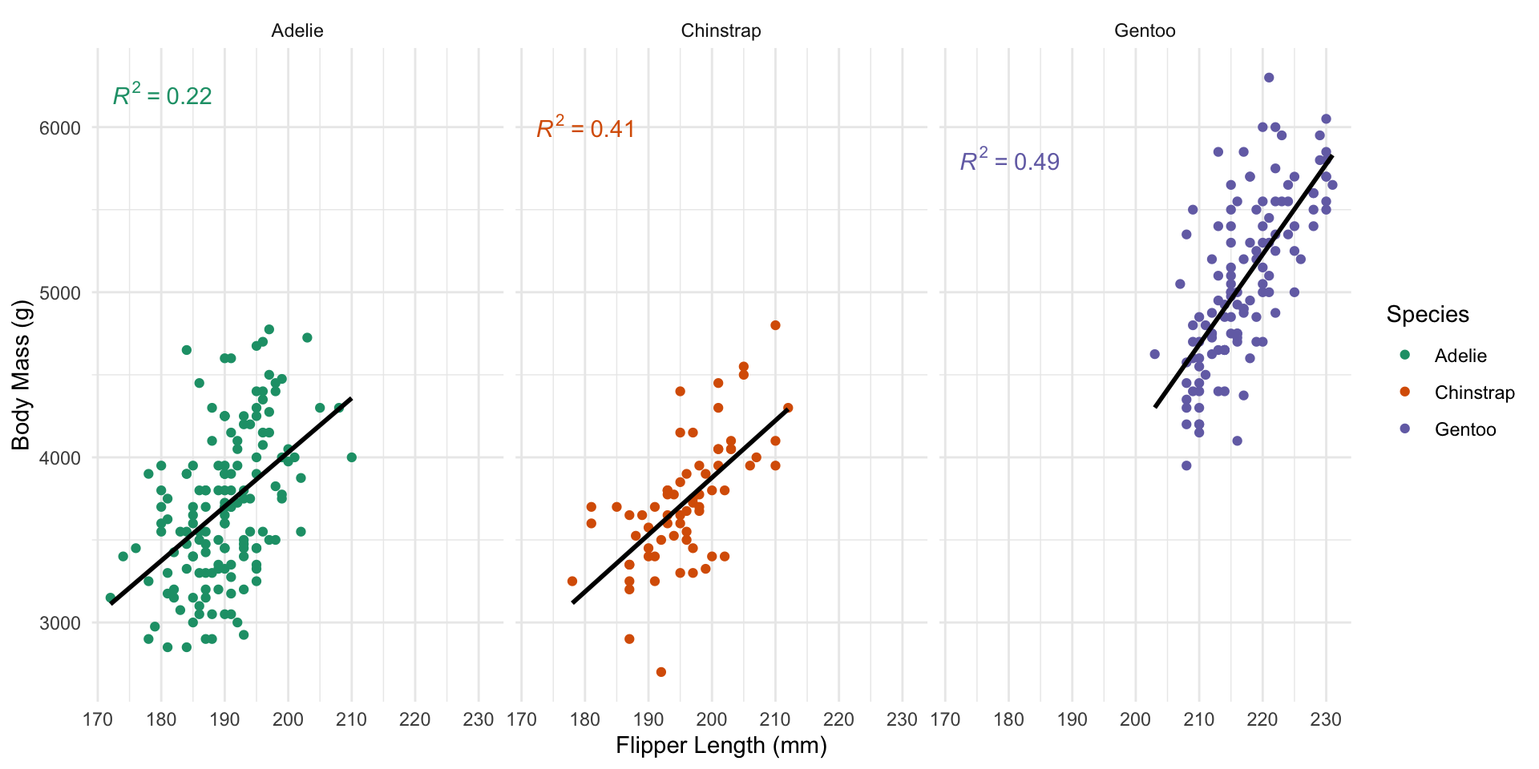
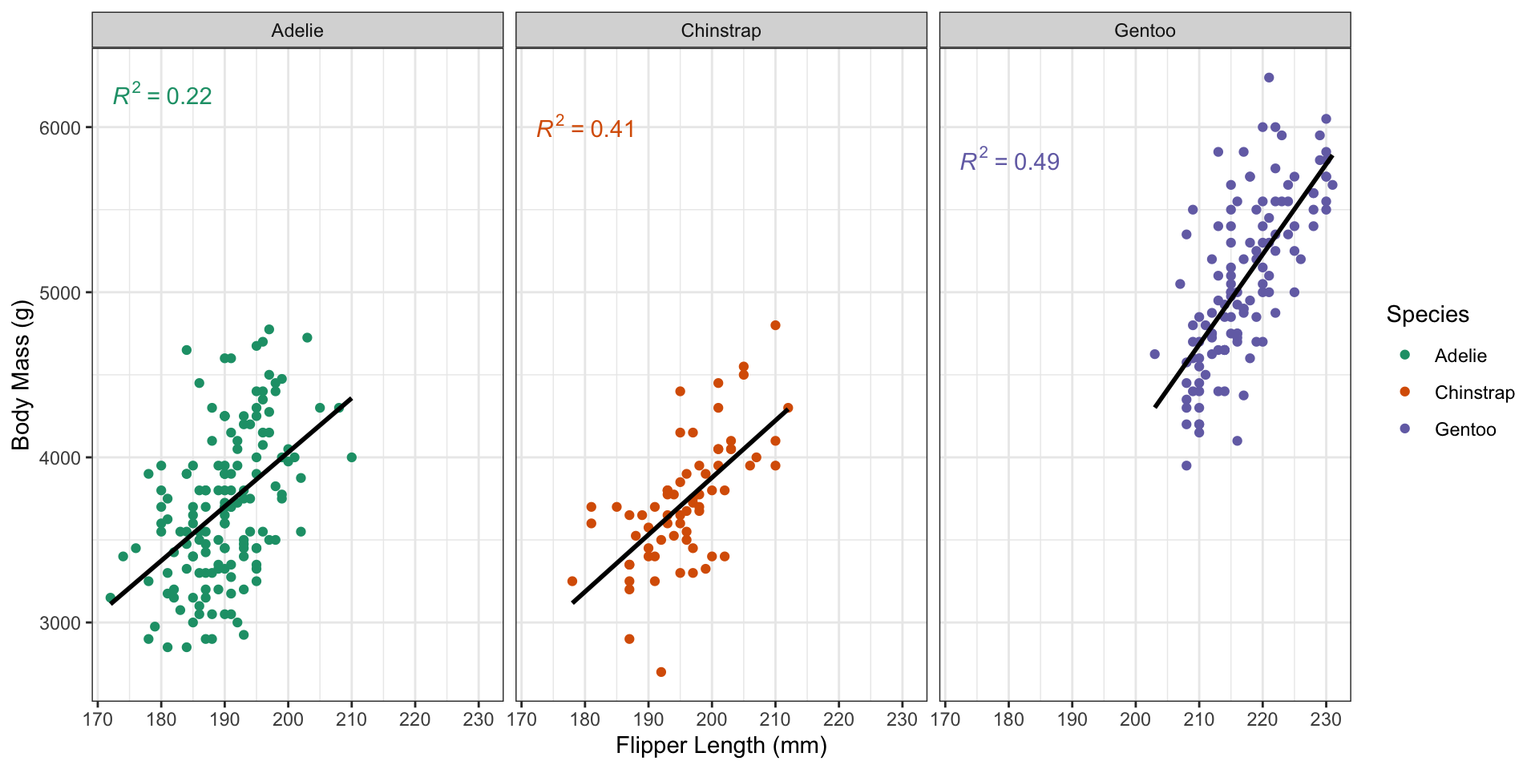
Add one more plot example

Changed region(s): [[0.0625, 0.0, 0.875, 0.0938]]

diff --git a/docs/slides/slides07.html b/docs/slides/slides07.html
@@ -432,6 +432,10 @@ Michael Weylandt
 <li>MP#04: Retirement Forecasting</li>
 </ul>
 </section>
+<section id="course-project" class="slide level2">
+<h2>Course Project</h2>
+<p>Proposal feedback <em>soon</em> (need to do 2 more before releasing)</p>
+</section>
 <section id="pre-assignments" class="slide level2">
 <h2>Pre-Assignments</h2>
 <p>Brightspace - Wednesdays at 11:45</p>
@@ -711,98 +715,117 @@ Michael Weylandt
 
 </div>
 <img data-src="slides07_files/figure-revealjs/unnamed-chunk-10-1.png" width="960" class="r-stretch"></section>
+<section id="faq-how-to-hard-code-colors" class="slide level2">
+<h2>FAQ: How to “hard-code” colors</h2>
+<div class="cell">
+<div class="sourceCode cell-code" id="cb11"><pre class="sourceCode numberSource r number-lines code-with-copy"><code class="sourceCode r"><span id="cb11-1"><a></a><span class="fu">library</span>(dplyr)</span>
+<span id="cb11-2"><a></a>data <span class="ot">&lt;-</span> <span class="fu">data.frame</span>(<span class="at">x =</span> <span class="fu">rnorm</span>(<span class="dv">5</span>), </span>
+<span id="cb11-3"><a></a>                   <span class="at">y =</span> <span class="fu">rnorm</span>(<span class="dv">5</span>), </span>
+<span id="cb11-4"><a></a>                   <span class="at">group =</span> <span class="fu">c</span>(<span class="st">"a"</span>, <span class="st">"a"</span>, <span class="st">"b"</span>, <span class="st">"b"</span>, <span class="st">"b"</span>))</span>
+<span id="cb11-5"><a></a></span>
+<span id="cb11-6"><a></a>data <span class="sc">|&gt;</span> </span>
+<span id="cb11-7"><a></a>    <span class="fu">group_by</span>(group) <span class="sc">|&gt;</span></span>
+<span id="cb11-8"><a></a>    <span class="fu">mutate</span>(<span class="at">n_count =</span> <span class="fu">n</span>()) <span class="sc">|&gt;</span></span>
+<span id="cb11-9"><a></a>    <span class="fu">ungroup</span>() <span class="sc">|&gt;</span></span>
+<span id="cb11-10"><a></a>    <span class="fu">mutate</span>(<span class="at">color =</span> <span class="fu">ifelse</span>(n_count <span class="sc">==</span> <span class="fu">max</span>(n_count), <span class="st">"red"</span>, <span class="st">"black"</span>)) <span class="sc">|&gt;</span></span>
+<span id="cb11-11"><a></a>    <span class="fu">ggplot</span>(<span class="fu">aes</span>(<span class="at">x=</span>x, <span class="at">y=</span>y, <span class="at">shape=</span>group, <span class="at">color=</span>color)) <span class="sc">+</span> </span>
+<span id="cb11-12"><a></a>    <span class="fu">geom_point</span>() <span class="sc">+</span> </span>
+<span id="cb11-13"><a></a>    <span class="fu">scale_color_identity</span>()</span></code><button title="Copy to Clipboard" class="code-copy-button"><i class="bi"></i></button></pre></div>
+
+</div>
+<img data-src="slides07_files/figure-revealjs/unnamed-chunk-11-1.png" width="960" class="r-stretch"></section>
 <section id="faq-how-to-customize-themes" class="slide level2">
 <h2>FAQ: How to Customize Themes</h2>
 <p>Built-in themes + <code>ggthemes</code> package:</p>
 <div class="cell">
-<div class="sourceCode cell-code" id="cb11"><pre class="sourceCode numberSource r number-lines code-with-copy"><code class="sourceCode r"><span id="cb11-1"><a></a><span class="fu">library</span>(ggplot2); <span class="fu">library</span>(ggthemes); </span>
-<span id="cb11-2"><a></a><span class="fu">library</span>(palmerpenguins); <span class="fu">library</span>(ggpmisc)</span>
-<span id="cb11-3"><a></a>p <span class="ot">&lt;-</span> <span class="fu">ggplot</span>(penguins, </span>
-<span id="cb11-4"><a></a>       <span class="fu">aes</span>(<span class="at">x=</span>flipper_length_mm, </span>
-<span id="cb11-5"><a></a>           <span class="at">y=</span>body_mass_g, </span>
-<span id="cb11-6"><a></a>           <span class="at">color=</span>species)) <span class="sc">+</span> </span>
-<span id="cb11-7"><a></a>    <span class="fu">geom_point</span>() <span class="sc">+</span> </span>
-<span id="cb11-8"><a></a>    <span class="fu">stat_poly_line</span>(<span class="at">se=</span><span class="cn">FALSE</span>, </span>
-<span id="cb11-9"><a></a>                   <span class="at">color=</span><span class="st">"black"</span>) <span class="sc">+</span></span>
-<span id="cb11-10"><a></a>    <span class="fu">stat_poly_eq</span>() <span class="sc">+</span> </span>
-<span id="cb11-11"><a></a>    <span class="fu">xlab</span>(<span class="st">"Flipper Length (mm)"</span>) <span class="sc">+</span> </span>
-<span id="cb11-12"><a></a>    <span class="fu">ylab</span>(<span class="st">"Body Mass (g)"</span>) <span class="sc">+</span> </span>
-<span id="cb11-13"><a></a>    <span class="fu">scale_color_brewer</span>(<span class="at">type=</span><span class="st">"qual"</span>, </span>
-<span id="cb11-14"><a></a>                       <span class="at">palette=</span><span class="dv">2</span>, </span>
-<span id="cb11-15"><a></a>                       <span class="at">name=</span><span class="st">"Species"</span>) <span class="sc">+</span> </span>
-<span id="cb11-16"><a></a>    <span class="fu">facet_wrap</span>(<span class="sc">~</span>species)</span></code><button title="Copy to Clipboard" class="code-copy-button"><i class="bi"></i></button></pre></div>
+<div class="sourceCode cell-code" id="cb12"><pre class="sourceCode numberSource r number-lines code-with-copy"><code class="sourceCode r"><span id="cb12-1"><a></a><span class="fu">library</span>(ggplot2); <span class="fu">library</span>(ggthemes); </span>
+<span id="cb12-2"><a></a><span class="fu">library</span>(palmerpenguins); <span class="fu">library</span>(ggpmisc)</span>
+<span id="cb12-3"><a></a>p <span class="ot">&lt;-</span> <span class="fu">ggplot</span>(penguins, </span>
+<span id="cb12-4"><a></a>       <span class="fu">aes</span>(<span class="at">x=</span>flipper_length_mm, </span>
+<span id="cb12-5"><a></a>           <span class="at">y=</span>body_mass_g, </span>
+<span id="cb12-6"><a></a>           <span class="at">color=</span>species)) <span class="sc">+</span> </span>
+<span id="cb12-7"><a></a>    <span class="fu">geom_point</span>() <span class="sc">+</span> </span>
+<span id="cb12-8"><a></a>    <span class="fu">stat_poly_line</span>(<span class="at">se=</span><span class="cn">FALSE</span>, </span>
+<span id="cb12-9"><a></a>                   <span class="at">color=</span><span class="st">"black"</span>) <span class="sc">+</span></span>
+<span id="cb12-10"><a></a>    <span class="fu">stat_poly_eq</span>() <span class="sc">+</span> </span>
+<span id="cb12-11"><a></a>    <span class="fu">xlab</span>(<span class="st">"Flipper Length (mm)"</span>) <span class="sc">+</span> </span>
+<span id="cb12-12"><a></a>    <span class="fu">ylab</span>(<span class="st">"Body Mass (g)"</span>) <span class="sc">+</span> </span>
+<span id="cb12-13"><a></a>    <span class="fu">scale_color_brewer</span>(<span class="at">type=</span><span class="st">"qual"</span>, </span>
+<span id="cb12-14"><a></a>                       <span class="at">palette=</span><span class="dv">2</span>, </span>
+<span id="cb12-15"><a></a>                       <span class="at">name=</span><span class="st">"Species"</span>) <span class="sc">+</span> </span>
+<span id="cb12-16"><a></a>    <span class="fu">facet_wrap</span>(<span class="sc">~</span>species)</span></code><button title="Copy to Clipboard" class="code-copy-button"><i class="bi"></i></button></pre></div>
 </div>
 </section>
 <section id="faq-themes" class="slide level2">
 <h2>FAQ: Themes</h2>
 <p>Default theme (<code>ggplot2::theme_grey()</code>):</p>
 
-<img data-src="slides07_files/figure-revealjs/unnamed-chunk-12-1.png" width="960" class="r-stretch"></section>
+<img data-src="slides07_files/figure-revealjs/unnamed-chunk-13-1.png" width="960" class="r-stretch"></section>
 <section id="faq-themes-1" class="slide level2">
 <h2>FAQ: Themes</h2>
 <p>Black and White theme (<code>ggplot2::theme_bw()</code>):</p>
 
-<img data-src="slides07_files/figure-revealjs/unnamed-chunk-13-1.png" width="960" class="r-stretch"></section>
+<img data-src="slides07_files/figure-revealjs/unnamed-chunk-14-1.png" width="960" class="r-stretch"></section>
 <section id="faq-themes-2" class="slide level2">
 <h2>FAQ: Themes</h2>
 <p>Minimal theme (<code>ggplot2::theme_minimal()</code>):</p>
 
-<img data-src="slides07_files/figure-revealjs/unnamed-chunk-14-1.png" width="960" class="r-stretch"></section>
+<img data-src="slides07_files/figure-revealjs/unnamed-chunk-15-1.png" width="960" class="r-stretch"></section>
 <section id="faq-themes-3" class="slide level2">
 <h2>FAQ: Themes</h2>
 <p>Light theme (<code>ggplot2::theme_light()</code>):</p>
 
-<img data-src="slides07_files/figure-revealjs/unnamed-chunk-15-1.png" width="960" class="r-stretch"></section>
+<img data-src="slides07_files/figure-revealjs/unnamed-chunk-16-1.png" width="960" class="r-stretch"></section>
 <section id="faq-themes-4" class="slide level2">
 <h2>FAQ: Themes</h2>
 <p>Dark theme (<code>ggplot2::theme_dark()</code>):</p>
 
-<img data-src="slides07_files/figure-revealjs/unnamed-chunk-16-1.png" width="960" class="r-stretch"></section>
+<img data-src="slides07_files/figure-revealjs/unnamed-chunk-17-1.png" width="960" class="r-stretch"></section>
 <section id="faq-themes-5" class="slide level2">
 <h2>FAQ: Themes</h2>
 <p>Excel theme (<code>ggthemes::theme_excel()</code>):</p>
 
-<img data-src="slides07_files/figure-revealjs/unnamed-chunk-17-1.png" width="960" class="r-stretch"></section>
+<img data-src="slides07_files/figure-revealjs/unnamed-chunk-18-1.png" width="960" class="r-stretch"></section>
 <section id="faq-themes-6" class="slide level2">
 <h2>FAQ: Themes</h2>
 <p>Google Docs theme (<code>ggthemes::theme_gdocs()</code>):</p>
 
-<img data-src="slides07_files/figure-revealjs/unnamed-chunk-18-1.png" width="960" class="r-stretch"></section>
+<img data-src="slides07_files/figure-revealjs/unnamed-chunk-19-1.png" width="960" class="r-stretch"></section>
 <section id="faq-themes-7" class="slide level2">
 <h2>FAQ: Themes</h2>
 <p><em>The Economist</em> theme (<code>ggthemes::theme_economist()</code>):</p>
 
-<img data-src="slides07_files/figure-revealjs/unnamed-chunk-19-1.png" width="960" class="r-stretch"></section>
+<img data-src="slides07_files/figure-revealjs/unnamed-chunk-20-1.png" width="960" class="r-stretch"></section>
 <section id="faq-themes-8" class="slide level2">
 <h2>FAQ: Themes</h2>
 <p><em>The Economist</em> theme (<code>ggthemes::theme_economist()</code>):</p>
 
-<img data-src="slides07_files/figure-revealjs/unnamed-chunk-20-1.png" width="960" class="r-stretch"></section>
+<img data-src="slides07_files/figure-revealjs/unnamed-chunk-21-1.png" width="960" class="r-stretch"></section>
 <section id="faq-themes-9" class="slide level2">
 <h2>FAQ: Themes</h2>
 <p><em>Solarized</em> theme (<code>ggthemes::theme_solarized()</code>):</p>
 
-<img data-src="slides07_files/figure-revealjs/unnamed-chunk-21-1.png" width="960" class="r-stretch"></section>
+<img data-src="slides07_files/figure-revealjs/unnamed-chunk-22-1.png" width="960" class="r-stretch"></section>
 <section id="faq-themes-10" class="slide level2">
 <h2>FAQ: Themes</h2>
 <p><em>Solarized2</em> theme (<code>ggthemes::theme_solarized_2()</code>):</p>
 
-<img data-src="slides07_files/figure-revealjs/unnamed-chunk-22-1.png" width="960" class="r-stretch"></section>
+<img data-src="slides07_files/figure-revealjs/unnamed-chunk-23-1.png" width="960" class="r-stretch"></section>
 <section id="faq-themes-11" class="slide level2">
 <h2>FAQ: Themes</h2>
 <p>Stata theme (<code>ggthemes::theme_stata()</code>):</p>
 
-<img data-src="slides07_files/figure-revealjs/unnamed-chunk-23-1.png" width="960" class="r-stretch"></section>
+<img data-src="slides07_files/figure-revealjs/unnamed-chunk-24-1.png" width="960" class="r-stretch"></section>
 <section id="faq-themes-12" class="slide level2">
 <h2>FAQ: Themes</h2>
 <p>Tufte theme (<code>ggthemes::theme_tufte()</code>):</p>
 
-<img data-src="slides07_files/figure-revealjs/unnamed-chunk-24-1.png" width="960" class="r-stretch"></section>
+<img data-src="slides07_files/figure-revealjs/unnamed-chunk-25-1.png" width="960" class="r-stretch"></section>
 <section id="faq-themes-13" class="slide level2">
 <h2>FAQ: Themes</h2>
 <p><em>Wall Street Journal</em> theme (<code>ggthemes::theme_wsj()</code>):</p>
 
-<img data-src="slides07_files/figure-revealjs/unnamed-chunk-25-1.png" width="960" class="r-stretch"></section>
+<img data-src="slides07_files/figure-revealjs/unnamed-chunk-26-1.png" width="960" class="r-stretch"></section>
 <section id="faq-themes-14" class="slide level2">
 <h2>FAQ: Themes</h2>
 <p>Many more online:</p>
@@ -814,26 +837,26 @@ Michael Weylandt
 <h2>FAQ: Order of Layers</h2>
 <p>Order of layers <em>technically</em> matters, but the effect is small</p>
 <div class="cell">
-<div class="sourceCode cell-code" id="cb12"><pre class="sourceCode numberSource r number-lines code-with-copy"><code class="sourceCode r"><span id="cb12-1"><a></a>p1 <span class="ot">&lt;-</span> <span class="fu">ggplot</span>(penguins, <span class="fu">aes</span>(<span class="at">x=</span>bill_length_mm, <span class="at">y=</span>flipper_length_mm)) <span class="sc">+</span></span>
-<span id="cb12-2"><a></a>        <span class="fu">geom_point</span>(<span class="at">color=</span><span class="st">"black"</span>) <span class="sc">+</span> </span>
-<span id="cb12-3"><a></a>        <span class="fu">geom_smooth</span>(<span class="at">color=</span><span class="st">"blue"</span>, <span class="at">method=</span><span class="st">"lm"</span>) <span class="sc">+</span> <span class="fu">ggtitle</span>(<span class="st">"Line on points"</span>)</span>
-<span id="cb12-4"><a></a>p2 <span class="ot">&lt;-</span> <span class="fu">ggplot</span>(penguins, <span class="fu">aes</span>(<span class="at">x=</span>bill_length_mm, <span class="at">y=</span>flipper_length_mm)) <span class="sc">+</span></span>
-<span id="cb12-5"><a></a>        <span class="fu">geom_smooth</span>(<span class="at">color=</span><span class="st">"blue"</span>, <span class="at">method=</span><span class="st">"lm"</span>) <span class="sc">+</span> </span>
-<span id="cb12-6"><a></a>        <span class="fu">geom_point</span>(<span class="at">color=</span><span class="st">"black"</span>) <span class="sc">+</span> <span class="fu">ggtitle</span>(<span class="st">"Points on line"</span>)</span>
-<span id="cb12-7"><a></a>p1 <span class="sc">+</span> p2</span></code><button title="Copy to Clipboard" class="code-copy-button"><i class="bi"></i></button></pre></div>
+<div class="sourceCode cell-code" id="cb13"><pre class="sourceCode numberSource r number-lines code-with-copy"><code class="sourceCode r"><span id="cb13-1"><a></a>p1 <span class="ot">&lt;-</span> <span class="fu">ggplot</span>(penguins, <span class="fu">aes</span>(<span class="at">x=</span>bill_length_mm, <span class="at">y=</span>flipper_length_mm)) <span class="sc">+</span></span>
+<span id="cb13-2"><a></a>        <span class="fu">geom_point</span>(<span class="at">color=</span><span class="st">"black"</span>) <span class="sc">+</span> </span>
+<span id="cb13-3"><a></a>        <span class="fu">geom_smooth</span>(<span class="at">color=</span><span class="st">"blue"</span>, <span class="at">method=</span><span class="st">"lm"</span>) <span class="sc">+</span> <span class="fu">ggtitle</span>(<span class="st">"Line on points"</span>)</span>
+<span id="cb13-4"><a></a>p2 <span class="ot">&lt;-</span> <span class="fu">ggplot</span>(penguins, <span class="fu">aes</span>(<span class="at">x=</span>bill_length_mm, <span class="at">y=</span>flipper_length_mm)) <span class="sc">+</span></span>
+<span id="cb13-5"><a></a>        <span class="fu">geom_smooth</span>(<span class="at">color=</span><span class="st">"blue"</span>, <span class="at">method=</span><span class="st">"lm"</span>) <span class="sc">+</span> </span>
+<span id="cb13-6"><a></a>        <span class="fu">geom_point</span>(<span class="at">color=</span><span class="st">"black"</span>) <span class="sc">+</span> <span class="fu">ggtitle</span>(<span class="st">"Points on line"</span>)</span>
+<span id="cb13-7"><a></a>p1 <span class="sc">+</span> p2</span></code><button title="Copy to Clipboard" class="code-copy-button"><i class="bi"></i></button></pre></div>
 
 </div>
-<img data-src="slides07_files/figure-revealjs/unnamed-chunk-26-1.png" width="960" class="r-stretch"></section>
+<img data-src="slides07_files/figure-revealjs/unnamed-chunk-27-1.png" width="960" class="r-stretch"></section>
 <section id="faq-order-of-layers-1" class="slide level2">
 <h2>FAQ: Order of layers</h2>
 <p>Order matters more with theme. Adding a <code>theme_*()</code> will override any <code>theme()</code> customization you did:</p>
 <div class="cell">
-<div class="sourceCode cell-code" id="cb13"><pre class="sourceCode numberSource r number-lines code-with-copy"><code class="sourceCode r"><span id="cb13-1"><a></a>p1 <span class="ot">&lt;-</span> p <span class="sc">+</span> <span class="fu">theme_bw</span>() <span class="sc">+</span> <span class="fu">theme</span>(<span class="at">legend.position=</span><span class="st">"bottom"</span>)</span>
-<span id="cb13-2"><a></a>p2 <span class="ot">&lt;-</span> p <span class="sc">+</span> <span class="fu">theme</span>(<span class="at">legend.position=</span><span class="st">"bottom"</span>) <span class="sc">+</span> <span class="fu">theme_bw</span>() </span>
-<span id="cb13-3"><a></a>p1 <span class="sc">+</span> p2</span></code><button title="Copy to Clipboard" class="code-copy-button"><i class="bi"></i></button></pre></div>
+<div class="sourceCode cell-code" id="cb14"><pre class="sourceCode numberSource r number-lines code-with-copy"><code class="sourceCode r"><span id="cb14-1"><a></a>p1 <span class="ot">&lt;-</span> p <span class="sc">+</span> <span class="fu">theme_bw</span>() <span class="sc">+</span> <span class="fu">theme</span>(<span class="at">legend.position=</span><span class="st">"bottom"</span>)</span>
+<span id="cb14-2"><a></a>p2 <span class="ot">&lt;-</span> p <span class="sc">+</span> <span class="fu">theme</span>(<span class="at">legend.position=</span><span class="st">"bottom"</span>) <span class="sc">+</span> <span class="fu">theme_bw</span>() </span>
+<span id="cb14-3"><a></a>p1 <span class="sc">+</span> p2</span></code><button title="Copy to Clipboard" class="code-copy-button"><i class="bi"></i></button></pre></div>
 
 </div>
-<img data-src="slides07_files/figure-revealjs/unnamed-chunk-27-1.png" width="960" class="r-stretch"></section>
+<img data-src="slides07_files/figure-revealjs/unnamed-chunk-28-1.png" width="960" class="r-stretch"></section>
 <section id="faq-stat_poly_lineeq-vs-geom_smooth" class="slide level2">
 <h2>FAQ: <code>stat_poly_{line,eq}</code> vs <code>geom_smooth</code></h2>
 <p>By default <code>geom_smooth</code> fits a <em>generalized additive model</em> (GAM)</p>
@@ -845,12 +868,12 @@ Michael Weylandt
 <section id="faq-titles-and-captions" class="slide level2">
 <h2>FAQ: Titles and Captions</h2>
 <div class="cell">
-<div class="sourceCode cell-code" id="cb14"><pre class="sourceCode numberSource r number-lines code-with-copy"><code class="sourceCode r"><span id="cb14-1"><a></a><span class="fu">ggplot</span>() <span class="sc">+</span> </span>
-<span id="cb14-2"><a></a>    <span class="fu">labs</span>(<span class="at">title=</span><span class="st">"Title"</span>, <span class="at">subtitle=</span><span class="st">"Subtitle"</span>, <span class="at">caption=</span><span class="st">"Caption"</span>,</span>
-<span id="cb14-3"><a></a>         <span class="at">tag=</span><span class="st">"Tag"</span>, <span class="at">alt=</span><span class="st">"Alt-Text"</span>, <span class="at">alt_insight=</span><span class="st">"Alt-Insight"</span>)</span></code><button title="Copy to Clipboard" class="code-copy-button"><i class="bi"></i></button></pre></div>
+<div class="sourceCode cell-code" id="cb15"><pre class="sourceCode numberSource r number-lines code-with-copy"><code class="sourceCode r"><span id="cb15-1"><a></a><span class="fu">ggplot</span>() <span class="sc">+</span> </span>
+<span id="cb15-2"><a></a>    <span class="fu">labs</span>(<span class="at">title=</span><span class="st">"Title"</span>, <span class="at">subtitle=</span><span class="st">"Subtitle"</span>, <span class="at">caption=</span><span class="st">"Caption"</span>,</span>
+<span id="cb15-3"><a></a>         <span class="at">tag=</span><span class="st">"Tag"</span>, <span class="at">alt=</span><span class="st">"Alt-Text"</span>, <span class="at">alt_insight=</span><span class="st">"Alt-Insight"</span>)</span></code><button title="Copy to Clipboard" class="code-copy-button"><i class="bi"></i></button></pre></div>
 
 </div>
-<img data-src="slides07_files/figure-revealjs/unnamed-chunk-28-1.png" width="960" class="r-stretch"><p><code>+ggtitle("text")</code> is just shorthand for <code>+labs(title="text")</code></p>
+<img data-src="slides07_files/figure-revealjs/unnamed-chunk-29-1.png" width="960" class="r-stretch"><p><code>+ggtitle("text")</code> is just shorthand for <code>+labs(title="text")</code></p>
 </section>
 <section id="faq-relative-importance-of-aesthetics" class="slide level2">
 <h2>FAQ: Relative Importance of Aesthetics</h2>
@@ -874,11 +897,11 @@ Michael Weylandt
 <section id="faq-simpsons-paradox" class="slide level2">
 <h2>FAQ: Simpson’s Paradox</h2>
 
-<img data-src="slides07_files/figure-revealjs/unnamed-chunk-30-1.png" width="960" class="r-stretch"></section>
+<img data-src="slides07_files/figure-revealjs/unnamed-chunk-31-1.png" width="960" class="r-stretch"></section>
 <section id="faq-simpsons-paradox-1" class="slide level2">
 <h2>FAQ: Simpson’s Paradox</h2>
 
-<img data-src="slides07_files/figure-revealjs/unnamed-chunk-31-1.png" width="960" class="r-stretch"></section>
+<img data-src="slides07_files/figure-revealjs/unnamed-chunk-32-1.png" width="960" class="r-stretch"></section>
 <section id="faq-twin-axes-plots" class="slide level2">
 <h2>FAQ: Twin Axes Plots</h2>
 <blockquote>
@@ -892,36 +915,36 @@ Michael Weylandt
 <h2>FAQ: Embedding images in <code>ggplot</code></h2>
 <p>See the <code>ggimage</code> or <code>ggflags</code> package for images as “points”:</p>
 <div class="cell">
-<div class="sourceCode cell-code" id="cb15"><pre class="sourceCode numberSource r number-lines code-with-copy"><code class="sourceCode r"><span id="cb15-1"><a></a><span class="co">#devtools::install_github("jimjam-slam/ggflags"); </span></span>
-<span id="cb15-2"><a></a><span class="fu">library</span>(ggflags)</span>
-<span id="cb15-3"><a></a>d <span class="ot">&lt;-</span> <span class="fu">data.frame</span>(<span class="at">x=</span><span class="fu">rnorm</span>(<span class="dv">50</span>), <span class="at">y=</span><span class="fu">rnorm</span>(<span class="dv">50</span>), </span>
-<span id="cb15-4"><a></a>                <span class="at">country=</span><span class="fu">sample</span>(<span class="fu">c</span>(<span class="st">"ar"</span>,<span class="st">"fr"</span>, <span class="st">"nz"</span>, <span class="st">"gb"</span>, <span class="st">"es"</span>, <span class="st">"ca"</span>), <span class="dv">50</span>, <span class="cn">TRUE</span>), </span>
-<span id="cb15-5"><a></a>                <span class="at">stringsAsFactors =</span> <span class="cn">FALSE</span>)</span>
-<span id="cb15-6"><a></a><span class="fu">ggplot</span>(d, <span class="fu">aes</span>(<span class="at">x=</span>x, <span class="at">y=</span>y, <span class="at">country=</span>country, <span class="at">size=</span>x)) <span class="sc">+</span> </span>
-<span id="cb15-7"><a></a>  <span class="fu">geom_flag</span>() <span class="sc">+</span> </span>
-<span id="cb15-8"><a></a>  <span class="fu">scale_country</span>()</span></code><button title="Copy to Clipboard" class="code-copy-button"><i class="bi"></i></button></pre></div>
+<div class="sourceCode cell-code" id="cb16"><pre class="sourceCode numberSource r number-lines code-with-copy"><code class="sourceCode r"><span id="cb16-1"><a></a><span class="co">#devtools::install_github("jimjam-slam/ggflags"); </span></span>
+<span id="cb16-2"><a></a><span class="fu">library</span>(ggflags)</span>
+<span id="cb16-3"><a></a>d <span class="ot">&lt;-</span> <span class="fu">data.frame</span>(<span class="at">x=</span><span class="fu">rnorm</span>(<span class="dv">50</span>), <span class="at">y=</span><span class="fu">rnorm</span>(<span class="dv">50</span>), </span>
+<span id="cb16-4"><a></a>                <span class="at">country=</span><span class="fu">sample</span>(<span class="fu">c</span>(<span class="st">"ar"</span>,<span class="st">"fr"</span>, <span class="st">"nz"</span>, <span class="st">"gb"</span>, <span class="st">"es"</span>, <span class="st">"ca"</span>), <span class="dv">50</span>, <span class="cn">TRUE</span>), </span>
+<span id="cb16-5"><a></a>                <span class="at">stringsAsFactors =</span> <span class="cn">FALSE</span>)</span>
+<span id="cb16-6"><a></a><span class="fu">ggplot</span>(d, <span class="fu">aes</span>(<span class="at">x=</span>x, <span class="at">y=</span>y, <span class="at">country=</span>country, <span class="at">size=</span>x)) <span class="sc">+</span> </span>
+<span id="cb16-7"><a></a>  <span class="fu">geom_flag</span>() <span class="sc">+</span> </span>
+<span id="cb16-8"><a></a>  <span class="fu">scale_country</span>()</span></code><button title="Copy to Clipboard" class="code-copy-button"><i class="bi"></i></button></pre></div>
 
 </div>
-<img data-src="slides07_files/figure-revealjs/unnamed-chunk-32-1.png" width="960" class="r-stretch"></section>
+<img data-src="slides07_files/figure-revealjs/unnamed-chunk-33-1.png" width="960" class="r-stretch"></section>
 <section id="faq-embedding-images" class="slide level2">
 <h2>FAQ: Embedding Images</h2>
 <p>See <code>cowplot::draw_image()</code> for image background:</p>
 <div class="cell">
-<div class="sourceCode cell-code" id="cb16"><pre class="sourceCode numberSource r number-lines code-with-copy"><code class="sourceCode r"><span id="cb16-1"><a></a><span class="fu">library</span>(cowplot)</span>
-<span id="cb16-2"><a></a>p <span class="ot">&lt;-</span> <span class="fu">ggplot</span>(iris, <span class="fu">aes</span>(<span class="at">x =</span> Sepal.Length, <span class="at">fill =</span> Species)) <span class="sc">+</span></span>
-<span id="cb16-3"><a></a>  <span class="fu">geom_density</span>(<span class="at">alpha =</span> <span class="fl">0.7</span>) <span class="sc">+</span></span>
-<span id="cb16-4"><a></a>  <span class="fu">scale_y_continuous</span>(<span class="at">expand =</span> <span class="fu">expansion</span>(<span class="at">mult =</span> <span class="fu">c</span>(<span class="dv">0</span>, <span class="fl">0.05</span>))) <span class="sc">+</span></span>
-<span id="cb16-5"><a></a>  <span class="fu">theme_half_open</span>(<span class="dv">12</span>)</span>
-<span id="cb16-6"><a></a></span>
-<span id="cb16-7"><a></a>logo_file <span class="ot">&lt;-</span> <span class="fu">system.file</span>(<span class="st">"extdata"</span>, <span class="st">"logo.png"</span>, <span class="at">package =</span> <span class="st">"cowplot"</span>)</span>
-<span id="cb16-8"><a></a><span class="fu">ggdraw</span>() <span class="sc">+</span></span>
-<span id="cb16-9"><a></a>  <span class="fu">draw_image</span>(</span>
-<span id="cb16-10"><a></a>    logo_file, <span class="at">scale =</span> .<span class="dv">7</span></span>
-<span id="cb16-11"><a></a>  ) <span class="sc">+</span></span>
-<span id="cb16-12"><a></a>  <span class="fu">draw_plot</span>(p)</span></code><button title="Copy to Clipboard" class="code-copy-button"><i class="bi"></i></button></pre></div>
+<div class="sourceCode cell-code" id="cb17"><pre class="sourceCode numberSource r number-lines code-with-copy"><code class="sourceCode r"><span id="cb17-1"><a></a><span class="fu">library</span>(cowplot)</span>
+<span id="cb17-2"><a></a>p <span class="ot">&lt;-</span> <span class="fu">ggplot</span>(iris, <span class="fu">aes</span>(<span class="at">x =</span> Sepal.Length, <span class="at">fill =</span> Species)) <span class="sc">+</span></span>
+<span id="cb17-3"><a></a>  <span class="fu">geom_density</span>(<span class="at">alpha =</span> <span class="fl">0.7</span>) <span class="sc">+</span></span>
+<span id="cb17-4"><a></a>  <span class="fu">scale_y_continuous</span>(<span class="at">expand =</span> <span class="fu">expansion</span>(<span class="at">mult =</span> <span class="fu">c</span>(<span class="dv">0</span>, <span class="fl">0.05</span>))) <span class="sc">+</span></span>
+<span id="cb17-5"><a></a>  <span class="fu">theme_half_open</span>(<span class="dv">12</span>)</span>
+<span id="cb17-6"><a></a></span>
+<span id="cb17-7"><a></a>logo_file <span class="ot">&lt;-</span> <span class="fu">system.file</span>(<span class="st">"extdata"</span>, <span class="st">"logo.png"</span>, <span class="at">package =</span> <span class="st">"cowplot"</span>)</span>
+<span id="cb17-8"><a></a><span class="fu">ggdraw</span>() <span class="sc">+</span></span>
+<span id="cb17-9"><a></a>  <span class="fu">draw_image</span>(</span>
+<span id="cb17-10"><a></a>    logo_file, <span class="at">scale =</span> .<span class="dv">7</span></span>
+<span id="cb17-11"><a></a>  ) <span class="sc">+</span></span>
+<span id="cb17-12"><a></a>  <span class="fu">draw_plot</span>(p)</span></code><button title="Copy to Clipboard" class="code-copy-button"><i class="bi"></i></button></pre></div>
 
 </div>
-<img data-src="slides07_files/figure-revealjs/unnamed-chunk-33-1.png" width="960" class="r-stretch"></section></section>
+<img data-src="slides07_files/figure-revealjs/unnamed-chunk-34-1.png" width="960" class="r-stretch"></section></section>
 <section>
 <section id="today" class="title-slide slide level1 center">
 <h1>Today</h1>
